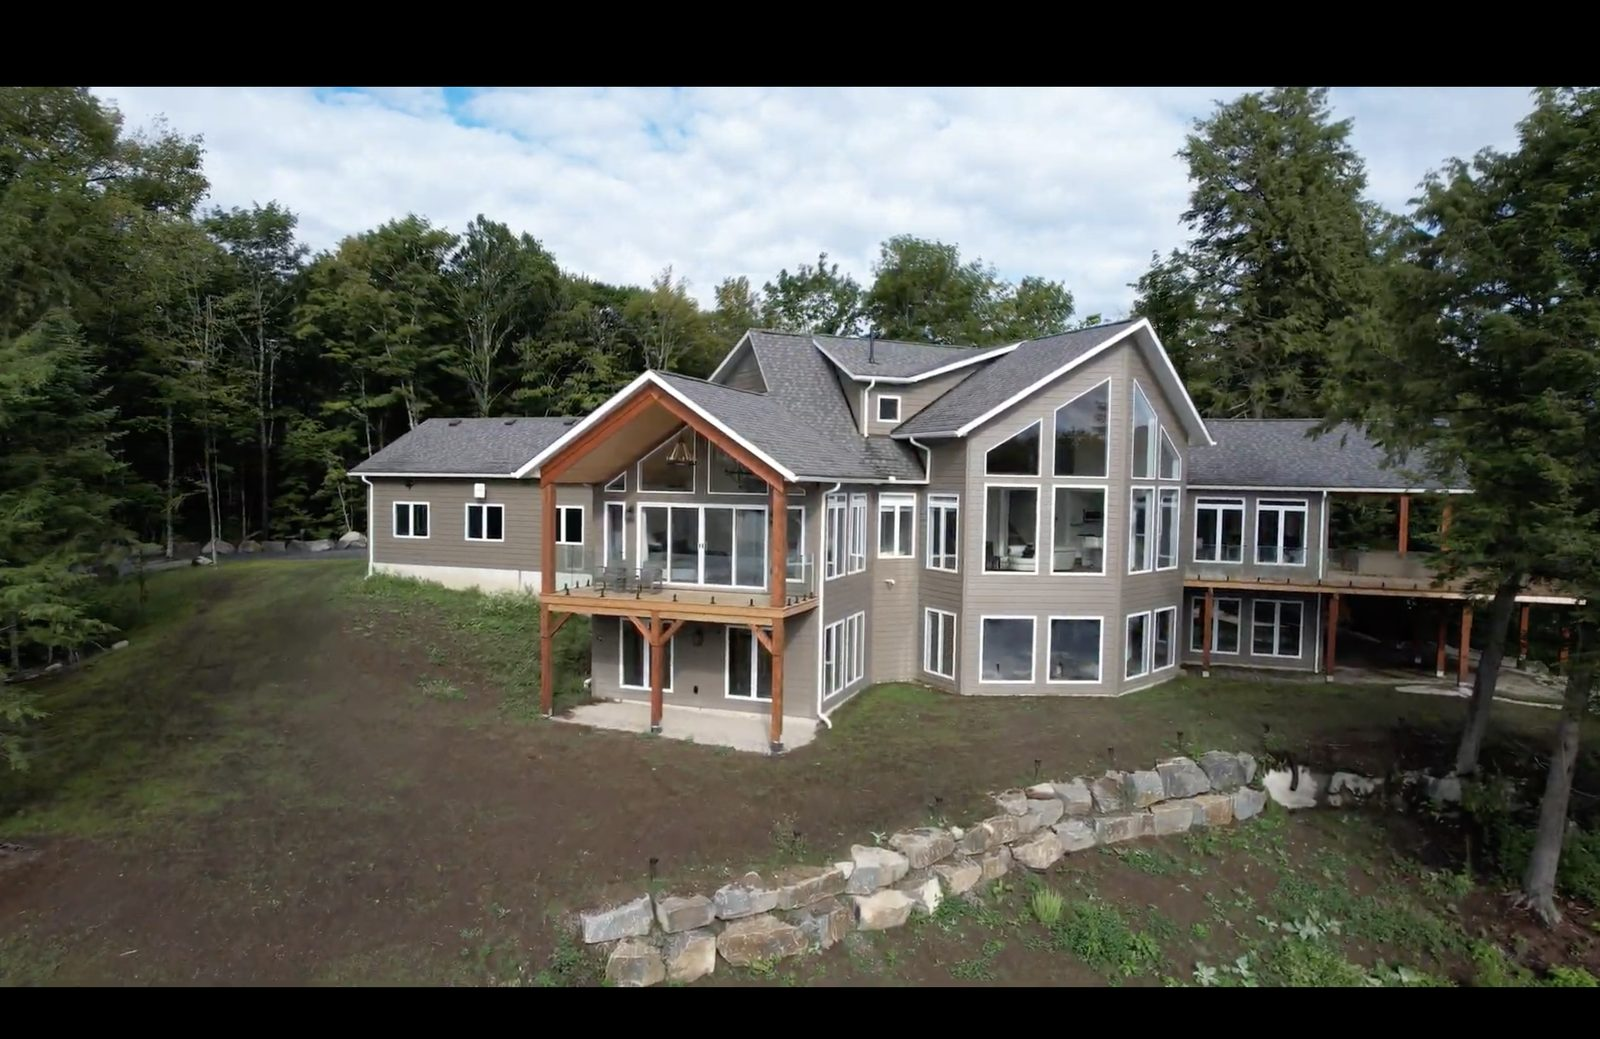
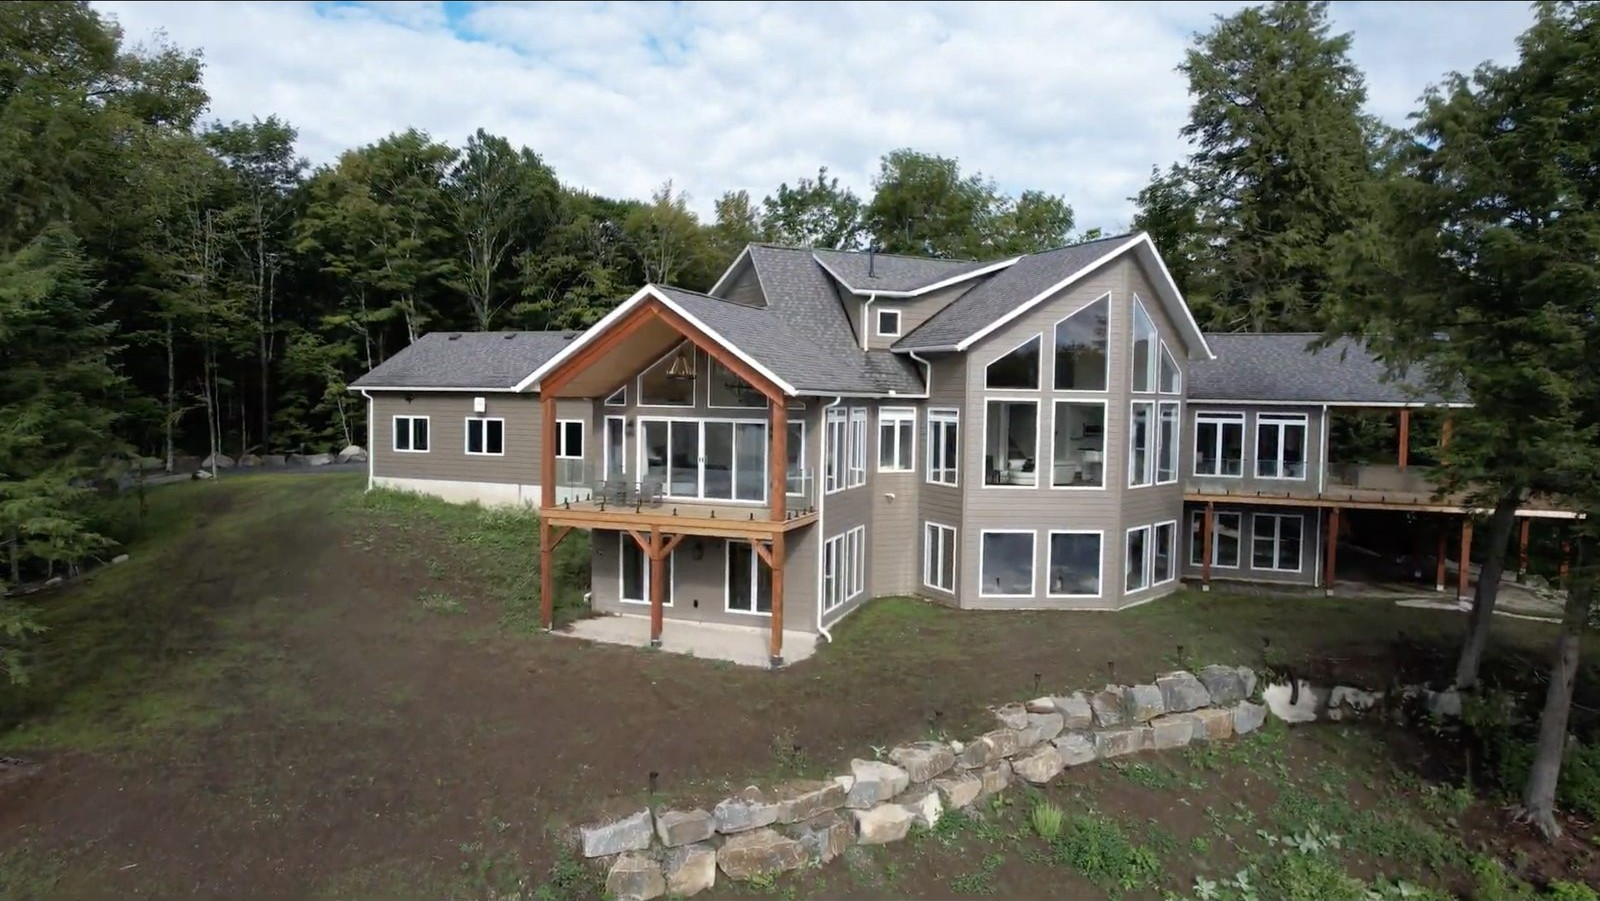
Crop the letterbox bars out of lakehouse/drone.jpg (#40)
The frame had black bars baked in (86px top, 52px bottom). Cropped to the
1600x901 content, so the blog card, the homepage tile, the Gravenhurst card
and link previews no longer show them. The post's CSS crop workaround is
removed since the file no longer needs it.

diff --git a/blog/how-long-does-a-septic-system-last/index.html b/blog/how-long-does-a-septic-system-last/index.html
@@ -30,7 +30,7 @@
 <section class="section"><div class="wrap prose post-body">
 <aside class="post-resources" aria-label="Related resources"><h2>Related Resources</h2><ul><li><a href="/services/site-preparation/">Site Preparation &amp; Site Development</a></li><li><a href="/services/permits-and-approvals/">Planning, Permits &amp; Township Approvals</a></li><li><a href="/services/how-we-build/">The A&amp;R Build Process</a></li></ul></aside>
 <div class="post-meta-byline"><span class="avatar" aria-hidden="true">RO</span><div><div class="byl-name">by Rene Ouellet Jr.</div><div class="byl-title">Owner</div><div class="byl-date">Posted on October 21, 2026</div></div></div>
-<figure class="post-figure post-figure--hero"><img src="/images/projects/lakehouse/drone.jpg" alt="A two-storey house with tall gable windows and timber-post decks, sitting above a wide, newly graded and seeded slope with an armour-stone wall across the lawn" loading="lazy" style="aspect-ratio:1600/900;object-fit:cover;object-position:50% 62%"><figcaption>On a rural lot, the leaching bed sits under open ground somewhere near the house. What happens on that ground for the next few decades counts as much as how the bed was built.</figcaption></figure>
+<figure class="post-figure post-figure--hero"><img src="/images/projects/lakehouse/drone.jpg" alt="A two-storey house with tall gable windows and timber-post decks, sitting above a wide, newly graded and seeded slope with an armour-stone wall across the lawn" loading="lazy"><figcaption>On a rural lot, the leaching bed sits under open ground somewhere near the house. What happens on that ground for the next few decades counts as much as how the bed was built.</figcaption></figure>
 <p>I look after site preparation and excavation on our builds, and the well and septic are part of that work. People buying a rural lot, or a house that already sits on one, usually ask the question as if there were a single answer. There is not. Part of where a system lands in that range is settled before the house is framed. The rest is settled by everything that goes down the drains, and everything that happens on the ground above the bed, for the next few decades.</p>
 <nav class="post-toc" aria-label="Contents"><p class="post-toc-label">We&rsquo;ll cover:</p><ul><li><a href="#the-range">How long does a septic system last? The honest range</a></li><li><a href="#decided-at-the-start">Some of it is decided before the house is built</a></li><li><a href="#what-wears-it-out">What wears a system out early</a></li><li><a href="#upkeep">The upkeep the Code asks for</a></li><li><a href="#warning-signs">The signs a system is in trouble</a></li><li><a href="#buying">How long does a septic system last on a house you are buying?</a></li><li><a href="#where-to-start">Where to start</a></li></ul></nav>
 <h2 id="the-range">How long does a septic system last? The honest range</h2><p><a href="https://www.ontario.ca/files/2022-10/omafra-septic-smart-understanding-home-wastewater-system-en-2022-10-14.pdf">SepticSmart</a>, published through Ontario.ca and reviewed by the Ministry of Municipal Affairs and Housing, OMAFRA and the Ontario Onsite Wastewater Association among others, gives the range in one line: approximately 15 to 40 years. In the next breath it tells you how to stretch it, which is to follow its list of things to do and not do.</p><p>A range that wide makes sense once you remember that a septic system is not one thing. Most rural homes and cottages in Ontario use what the <a href="https://www.ontario.ca/laws/regulation/120332">Ontario Building Code</a> calls a Class 4 system. Wastewater runs into a septic tank, where the heavy solids settle to the bottom and the fats, oils and grease float to the top as scum. An effluent filter keeps that scum and the suspended solids in the tank. The liquid that leaves goes on to a leaching bed, where the soil finishes the job.</p><p>Each of those parts has its own clock:</p><ul><li>The tank needs cleaning out on a schedule, which the Code sets by how full it is, not by the calendar.</li><li>The effluent filter should be checked and cleaned every year.</li><li>Some systems add a treatment unit. Filtration units, for one, need their filter material replaced approximately every 8 to 15 years, according to the same guide.</li><li>The leaching bed is the part that is hardest to put right. When a bed fails, the guide describes the repair as anything from cleaning a few lines to replacing the entire distribution system and digging out the contaminated, clogged soil.</li></ul><p>So the useful question is not how many years a system gets. It is what makes one bed reach 40 while another is in trouble at 15.</p><h2 id="decided-at-the-start">Some of it is decided before the house is built</h2><p>SepticSmart is blunt about early failure. If a system fails shortly after construction, it says, the cause may be poor site assessment, poor design, poor construction practices or homeowner abuse. Three of those four happen before anybody moves in.</p><p>The design starts with the house. Table 8.2.1.3.A of the Code sets a daily design flow by bedroom count: 1,600 litres a day for a three-bedroom dwelling and 2,000 for four, with more added for very large floor areas. Everything downstream is sized to that number.</p><figure class="post-figure"><img src="/images/plans/country-classics/the-augusta/floorplan.jpg" alt="Floor plan of the Augusta, a three-bedroom plan with the master bedroom on the main floor and bedrooms two and three upstairs. The bedroom count sets the design flow, the first part of how long does a septic system last" loading="lazy"><figcaption>The Augusta, one of our Country Classics plans: three bedrooms, two and a half baths, 1,862 sq ft. Three bedrooms means a design flow of 1,600 litres a day.</figcaption></figure><p>Take <a href="/home-plans/country-classics/the-augusta/">the Augusta</a> as an example. It has three bedrooms and 1,862 square feet of living area, which is under the Code&rsquo;s 200 square metre threshold for extra flow, so the design flow is 1,600 litres a day. Sentence 8.2.2.3.(1) sets the septic tank&rsquo;s working capacity at the greater of 3,600 litres and twice the daily design flow. Twice 1,600 is 3,200, so the 3,600-litre minimum governs. Add a fourth bedroom and the flow goes to 2,000 litres a day, and the tank to at least 4,000.</p><p>Then the bed has to go somewhere it can work. Article 8.7.2.1 keeps a leaching bed off ground with an average slope steeper than one in four, and out of areas subject to flooding that could damage it. It also forbids covering a bed with material that lets water through too slowly. A bed squeezed onto the wrong part of a lot can meet the drawings and still have a short life.</p><p>This is why our <a href="/services/how-we-build/">build process</a> starts with a site visit and evaluation, where we assess conditions and work out the best location for the home or cottage.</p><h2 id="what-wears-it-out">What wears a system out early</h2><p>Once a system is in, most of what shortens its life falls into three groups. Each one is on SepticSmart&rsquo;s list of things not to do.</p><p><strong>Too much water.</strong> The bed was sized for the design flow, and it does not care where the extra comes from. The guide says not to connect rain gutters, storm drains or sump pumps to a septic system, and not to drain hot tub or spa water into it. It also suggests repairing leaky fixtures, choosing low-flush toilets and spreading laundry loads through the week rather than doing them all on Saturday.</p><p><strong>Things that do not belong in the tank.</strong> Cooking oils and food waste, hazardous chemicals, pharmaceuticals, cigarette butts and sanitary products all stay out. So does a garburator, unless the system was designed for one, and water softener backwash, on the same terms. On additives sold to boost a tank&rsquo;s performance, the guide is short: you don&rsquo;t need them.</p><p><strong>Weight and roots on the bed.</strong> Do not drive or park over the tank or the bed, do not pave over the bed, and do not plant trees or shrubs too close to either. The Code says the same thing in its own words: Sentence 8.9.3.2.(2) requires the land around a sewage system to be kept in a condition that will not damage it or impair how it works.</p><figure class="post-figure"><img src="/images/projects/bayview-oro-medonte/IMG_20180627_091756.jpg" alt="A two-storey house in white house wrap during construction, with a detached garage beside it and bare, freshly graded soil and a small pile of fill in front" loading="lazy"><figcaption>Before the landscaping goes in, a building site is tracks and loose fill. It is also the point at which a new bed is most at risk from machines.</figcaption></figure><p>The last group matters most during and just after a build, when heavy equipment is still on site and the ground over a new bed looks like any other patch of dirt. That is when it needs marking off and keeping clear. Later on, the same goes for a delivery truck, a pool installer or a neighbour with a tractor.</p><h2 id="upkeep">The upkeep the Code asks for</h2><p>Start with the tank. Its job is to hold the solids back so that only the liquid moves on to the bed. Over time the sludge on the bottom and the scum on top build up, and the space between them gets smaller.</p><p>The Code does not set a calendar for this. Sentence 8.9.3.4.(1) says septic tanks and other treatment units shall be cleaned whenever sludge and scum occupy one-third of the working capacity of the tank. SepticSmart turns that into a routine: have a licensed sewage hauler or onsite sewage system professional take the cover off and inspect the tank every three to five years, and pump it when a third of its depth is sludge and scum.</p><p>How fast your tank reaches that point depends on how many people live in the house and how they use it, which is why the inspection matters more than a fixed date. Keep the records. The guide recommends keeping an as-built diagram of the system and an up-to-date log of pumping, service calls and repairs.</p><p>One rule from the guide that is not about lifespan at all: never go into a tank. The gases and the lack of oxygen can be fatal. Keep the access lid secured to its riser.</p><p>Some systems are more than a tank and a bed. Where the lot calls for it, a treatment unit cleans the effluent further before it reaches a smaller bed, and some systems use a pump to spread the effluent under pressure. Those parts bring obligations of their own:</p><ul><li>Sentence 8.9.2.3.(2) says no one may operate a treatment unit other than a septic tank without an agreement for servicing and maintenance by someone the manufacturer has authorized.</li><li>Article 8.9.2.4 requires a treatment unit feeding a shallow buried trench or a Type A or Type B dispersal bed to have its effluent sampled once in the first 12 months, then once in every 12-month period after that, with the results sent to the chief building official.</li><li>Article 8.9.3.5 requires the pressure at the far end of a pressurized distribution system to be checked at least every 36 months.</li></ul><p>None of these is optional, and all of them bear on lifespan. A treatment unit that is serviced on schedule protects the bed behind it. One that is ignored passes its problems along.</p><h2 id="warning-signs">The signs a system is in trouble</h2><p>A failing system is rarely subtle. SepticSmart lists the symptoms:</p><ul><li>household drains slowing down</li><li>toilets backing up</li><li>a sewage smell in the yard</li><li>grass over the system that is unusually green or spongy</li><li>bacteria or nitrate turning up in your well water</li><li>effluent ponding on the surface</li></ul><p>Ponding is more than unpleasant. Clause 8.9.1.2.(1)(a) of the Code says a sewage system shall not discharge sewage or effluent onto the surface of the ground. If you see effluent coming out around the tank lids, the guide says it points to a blocked effluent filter or a saturated distribution system.</p><p>The guide&rsquo;s advice on what to do next is sensible. Start with an inspection, because the tank may simply need cleaning. If the problem is in the bed, talk to an onsite sewage system professional, which includes installers, engineers, certified engineering technologists and registered designers, and get a second opinion. Any repair needs a permit from the local authority that runs the septic program where you live, and that varies from one municipality to the next. Some areas also have grant programs that help with the cost.</p><p>The well is your early warning. SepticSmart recommends testing your well water for indicator bacteria at least three times a year, in spring, summer and fall.</p><h2 id="buying">How long does a septic system last on a house you are buying?</h2><p>The age of a system tells you less than you would think. A well-kept bed at 25 can be in better shape than a neglected one at 12, so the paperwork and an inspection are worth more than the install date. Before you firm up an offer on a rural property, ask:</p><ul><li>Is there an as-built diagram, so you know where the tank and the bed actually are?</li><li>When was the tank last inspected and pumped, and are there records going back further?</li><li>Does the system have a treatment unit? If it does, who holds the maintenance agreement, and are the sampling results on file? The guide asks sellers of these systems to make sure the buyer knows the maintenance requirements.</li><li>What does the local authority have on file for the original permit and any repairs?</li><li>Do you plan to add bedrooms? The system was sized for a design flow, and more bedrooms raise it.</li></ul><p>Walk the ground over the bed, too. Spongy, unusually green grass, a smell, or a driveway that crosses where the bed should be are all things to ask about before you buy, not after.</p><h2 id="where-to-start">Where to start</h2><p>If you are building, the longest-lived system starts with the lot. <a href="/services/site-preparation/">Site preparation</a> on our builds includes well drilling and septic system design and installation, and <a href="/services/permits-and-approvals/">septic permits and inspections are coordinated with the build</a>. In our process the site visit comes before the custom design, so the lot is understood before anything is drawn.</p><p>If you already own a system, the answer is mostly in the maintenance: inspect, pump at a third, keep water and the wrong things out of it, and keep weight off the bed. How long does a septic system last in the end? A good part of the answer is up to you.</p><h2 id="frequently-asked-questions">Frequently asked questions</h2><div class="faq-list"><details class="faq-item"><summary>How many years does a septic system last in Ontario?</summary><div class="faq-a"><p>Approximately 15 to 40 years, according to the province&rsquo;s SepticSmart guide. Where a system falls in that range depends on the site assessment, the design and construction, and how well it is looked after.</p></div></details><details class="faq-item"><summary>How often should a septic tank be pumped?</summary><div class="faq-a"><p>When it needs it, which the Ontario Building Code defines as whenever sludge and scum fill one-third of the tank&rsquo;s working capacity. SepticSmart recommends having the tank inspected every three to five years to find out.</p></div></details><details class="faq-item"><summary>Do septic tank additives make a system last longer?</summary><div class="faq-a"><p>No. SepticSmart lists additives claimed to enhance a tank&rsquo;s performance among the things not to use, and says plainly that you don&rsquo;t need them.</p></div></details><details class="faq-item"><summary>Can I drive or park on my septic bed?</summary><div class="faq-a"><p>No. SepticSmart says not to drive or park over the tank or the distribution system, or to pave over the bed, and the Building Code requires the land around a sewage system to be kept so that it does not damage the system.</p></div></details><details class="faq-item"><summary>Why is the grass greener over my septic bed?</summary><div class="faq-a"><p>Grass over the system that is unusually green or spongy is one of the symptoms of a malfunctioning system listed in SepticSmart. Have the tank inspected first, since it may just need cleaning, and call an onsite sewage system professional if the problem is in the bed.</p></div></details></div>
